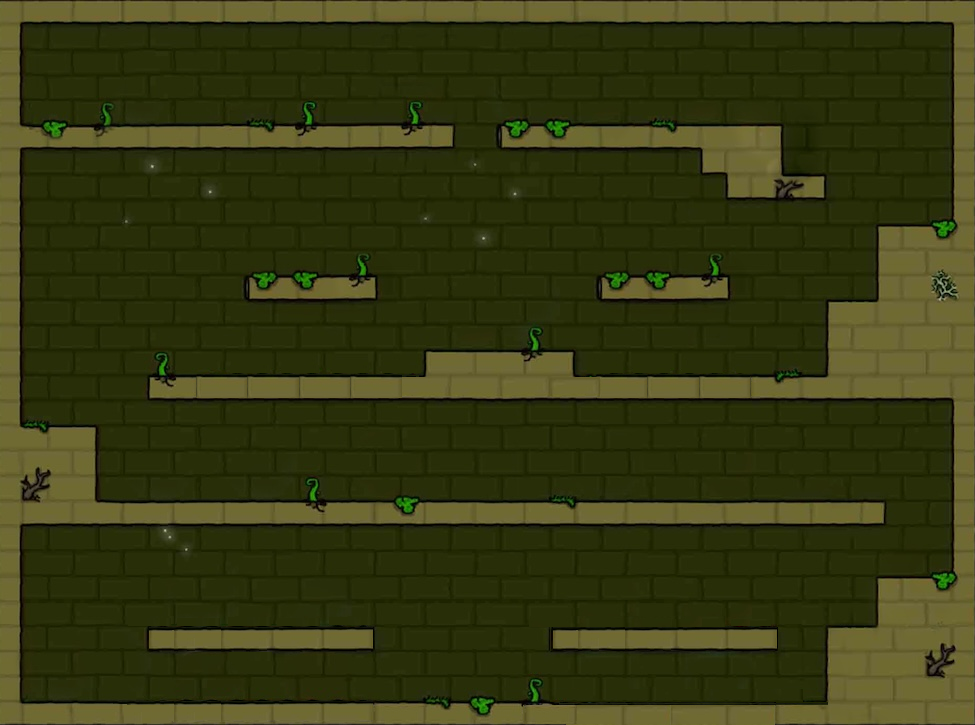
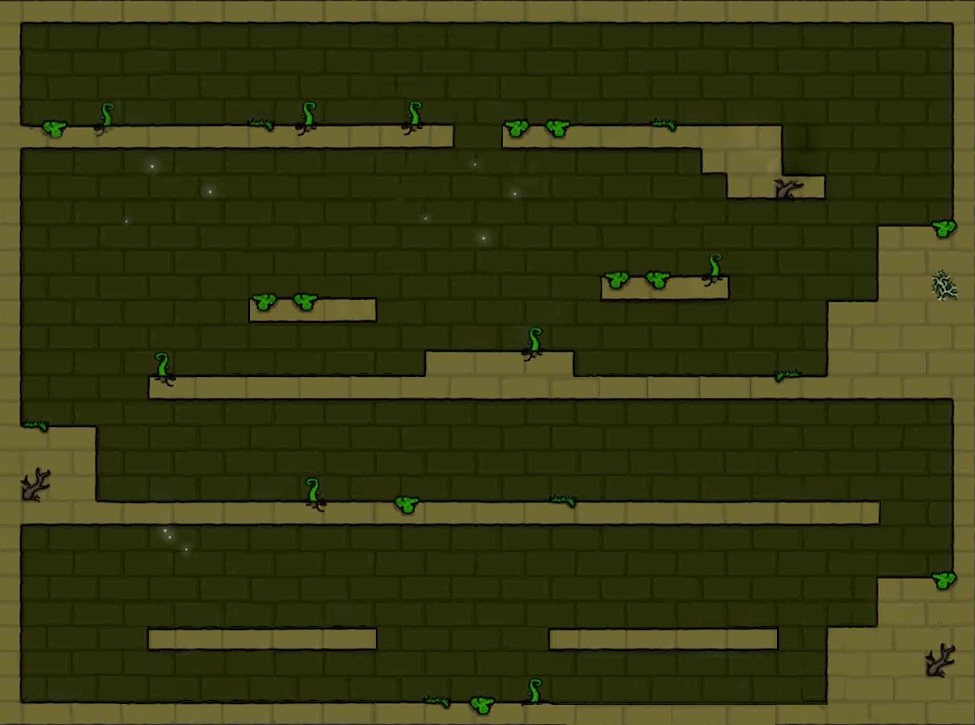
poision character die

Changed region(s): [[0.2462, 0.3641, 0.4, 0.4552], [0.8923, 0.6979, 0.9231, 0.7283], [0.4923, 0.1821, 0.5231, 0.2124]]

diff --git a/src/Object/GridSystem.cpp b/src/Object/GridSystem.cpp
@@ -147,6 +147,8 @@ bool GridSystem::CanMoveOn(CellType type, bool isFireboy) const {
     return true;
   case CellType::WATER:
     return true;
+  case CellType::POISON:
+    return true;
   case CellType::DOOR_FIRE:
     return isFireboy; // 只有火男可以通過火門
   case CellType::DOOR_WATER:
@@ -165,6 +167,8 @@ bool GridSystem::CanStandOn(CellType type, bool isFireboy) const {
     return !isFireboy;
   case CellType::LAVA:
     return isFireboy;
+  case CellType::POISON:
+    return false;
   default:
     return false;
   }
@@ -181,7 +185,8 @@ bool GridSystem::CheckCollision(const glm::vec2 &worldPos, glm::vec2 size,
     glm::ivec2 gridPosRight = GameToCellPosition(rightEdge);
     CellType cellTypeRight = GetCell(gridPosRight.x, gridPosRight.y);
 
-    if (cellTypeRight == CellType::WATER && isFireboy)
+    if ((cellTypeRight == CellType::WATER && isFireboy) ||
+        cellTypeRight == CellType::POISON)
       return false;
 
     return !CanMoveOn(cellTypeRight, isFireboy);
@@ -192,7 +197,8 @@ bool GridSystem::CheckCollision(const glm::vec2 &worldPos, glm::vec2 size,
     glm::ivec2 gridPosLeft = GameToCellPosition(leftEdge);
     CellType cellTypeLeft = GetCell(gridPosLeft.x, gridPosLeft.y);
 
-    if (cellTypeLeft == CellType::WATER && isFireboy)
+    if ((cellTypeLeft == CellType::WATER && isFireboy) ||
+        cellTypeLeft == CellType::POISON)
       return false;
 
     return !CanMoveOn(cellTypeLeft, isFireboy);

diff --git a/src/Game/LoadLevel.cpp b/src/Game/LoadLevel.cpp
@@ -162,17 +162,17 @@ bool App::LoadLevelGrid(int levelNumber) {
       m_Root.AddChild(lavaTrap);
     }
 
-    // // 毒池座標列表
-    // std::vector<std::pair<int, int>> poisionTrapCoords = {{12, 15}};
+    // 毒池座標列表
+    std::vector<std::pair<int, int>> poisionTrapCoords = {{12, 15}};
 
-    // for (const auto &[row, col] : poisionTrapCoords) {
-    //   auto poisionTrap =
-    //       std::make_shared<LiquidTrap>(CellType::POISON, SizeType::LARGE);
-    //   glm::vec2 pos = m_GridSystem.CellToGamePosition(row, col);
-    //   poisionTrap->SetPosition(pos);
-    //   m_Traps.push_back(poisionTrap);
-    //   m_Root.AddChild(poisionTrap);
-    // }
+    for (const auto &[row, col] : poisionTrapCoords) {
+      auto poisionTrap =
+          std::make_shared<LiquidTrap>(CellType::POISON, SizeType::LARGE);
+      glm::vec2 pos = m_GridSystem.CellToGamePosition(row, col);
+      poisionTrap->SetPosition(pos);
+      m_Traps.push_back(poisionTrap);
+      m_Root.AddChild(poisionTrap);
+    }
 
     // 火寶石座標 (row, col)
     std::vector<std::pair<int, int>> fireGemCoords = {

diff --git a/src/Mechanism/LiquidTrap.cpp b/src/Mechanism/LiquidTrap.cpp
@@ -23,9 +23,8 @@ LiquidTrap::LiquidTrap(CellType type, SizeType sizeType)
                     : RESOURCE_DIR "/material/props/lava/lava-green-small.png";
     break;
   default:
-    std::cerr << "⚠ Warning: 未知的 CellType (" << static_cast<int>(type)
-              << ")，使用預設值\n";
-    imagePath = "lava/default.png";
+    std::cerr << "⚠ Warning: Unknown CellType (" << static_cast<int>(type)
+              << ")\n";
     break;
   }
   SetImage(imagePath);
@@ -44,6 +43,10 @@ void LiquidTrap::SetPosition(const glm::vec2 &position) {
 }
 
 void LiquidTrap::OnCharacterEnter(Character *character) {
+  if (character == nullptr) {
+    return;
+  }
+
   switch (type) {
   case CellType::LAVA:
     if (dynamic_cast<Watergirl *>(character)) {

diff --git a/src/App.cpp b/src/App.cpp
@@ -52,7 +52,7 @@ App::App() {
       RESOURCE_DIR "/material/background/button/unlevel.png",
       glm::vec2(0, -102));
   m_Level2Button->SetVisible(false);
-  // m_Level2Button->SetInteractable(false); // 第二關不可互動
+  m_Level2Button->SetInteractable(false); // 第二關不可互動
 
   // 設置按鈕點擊事件回調
   m_Level2Button->SetOnClickCallback([this]() {
